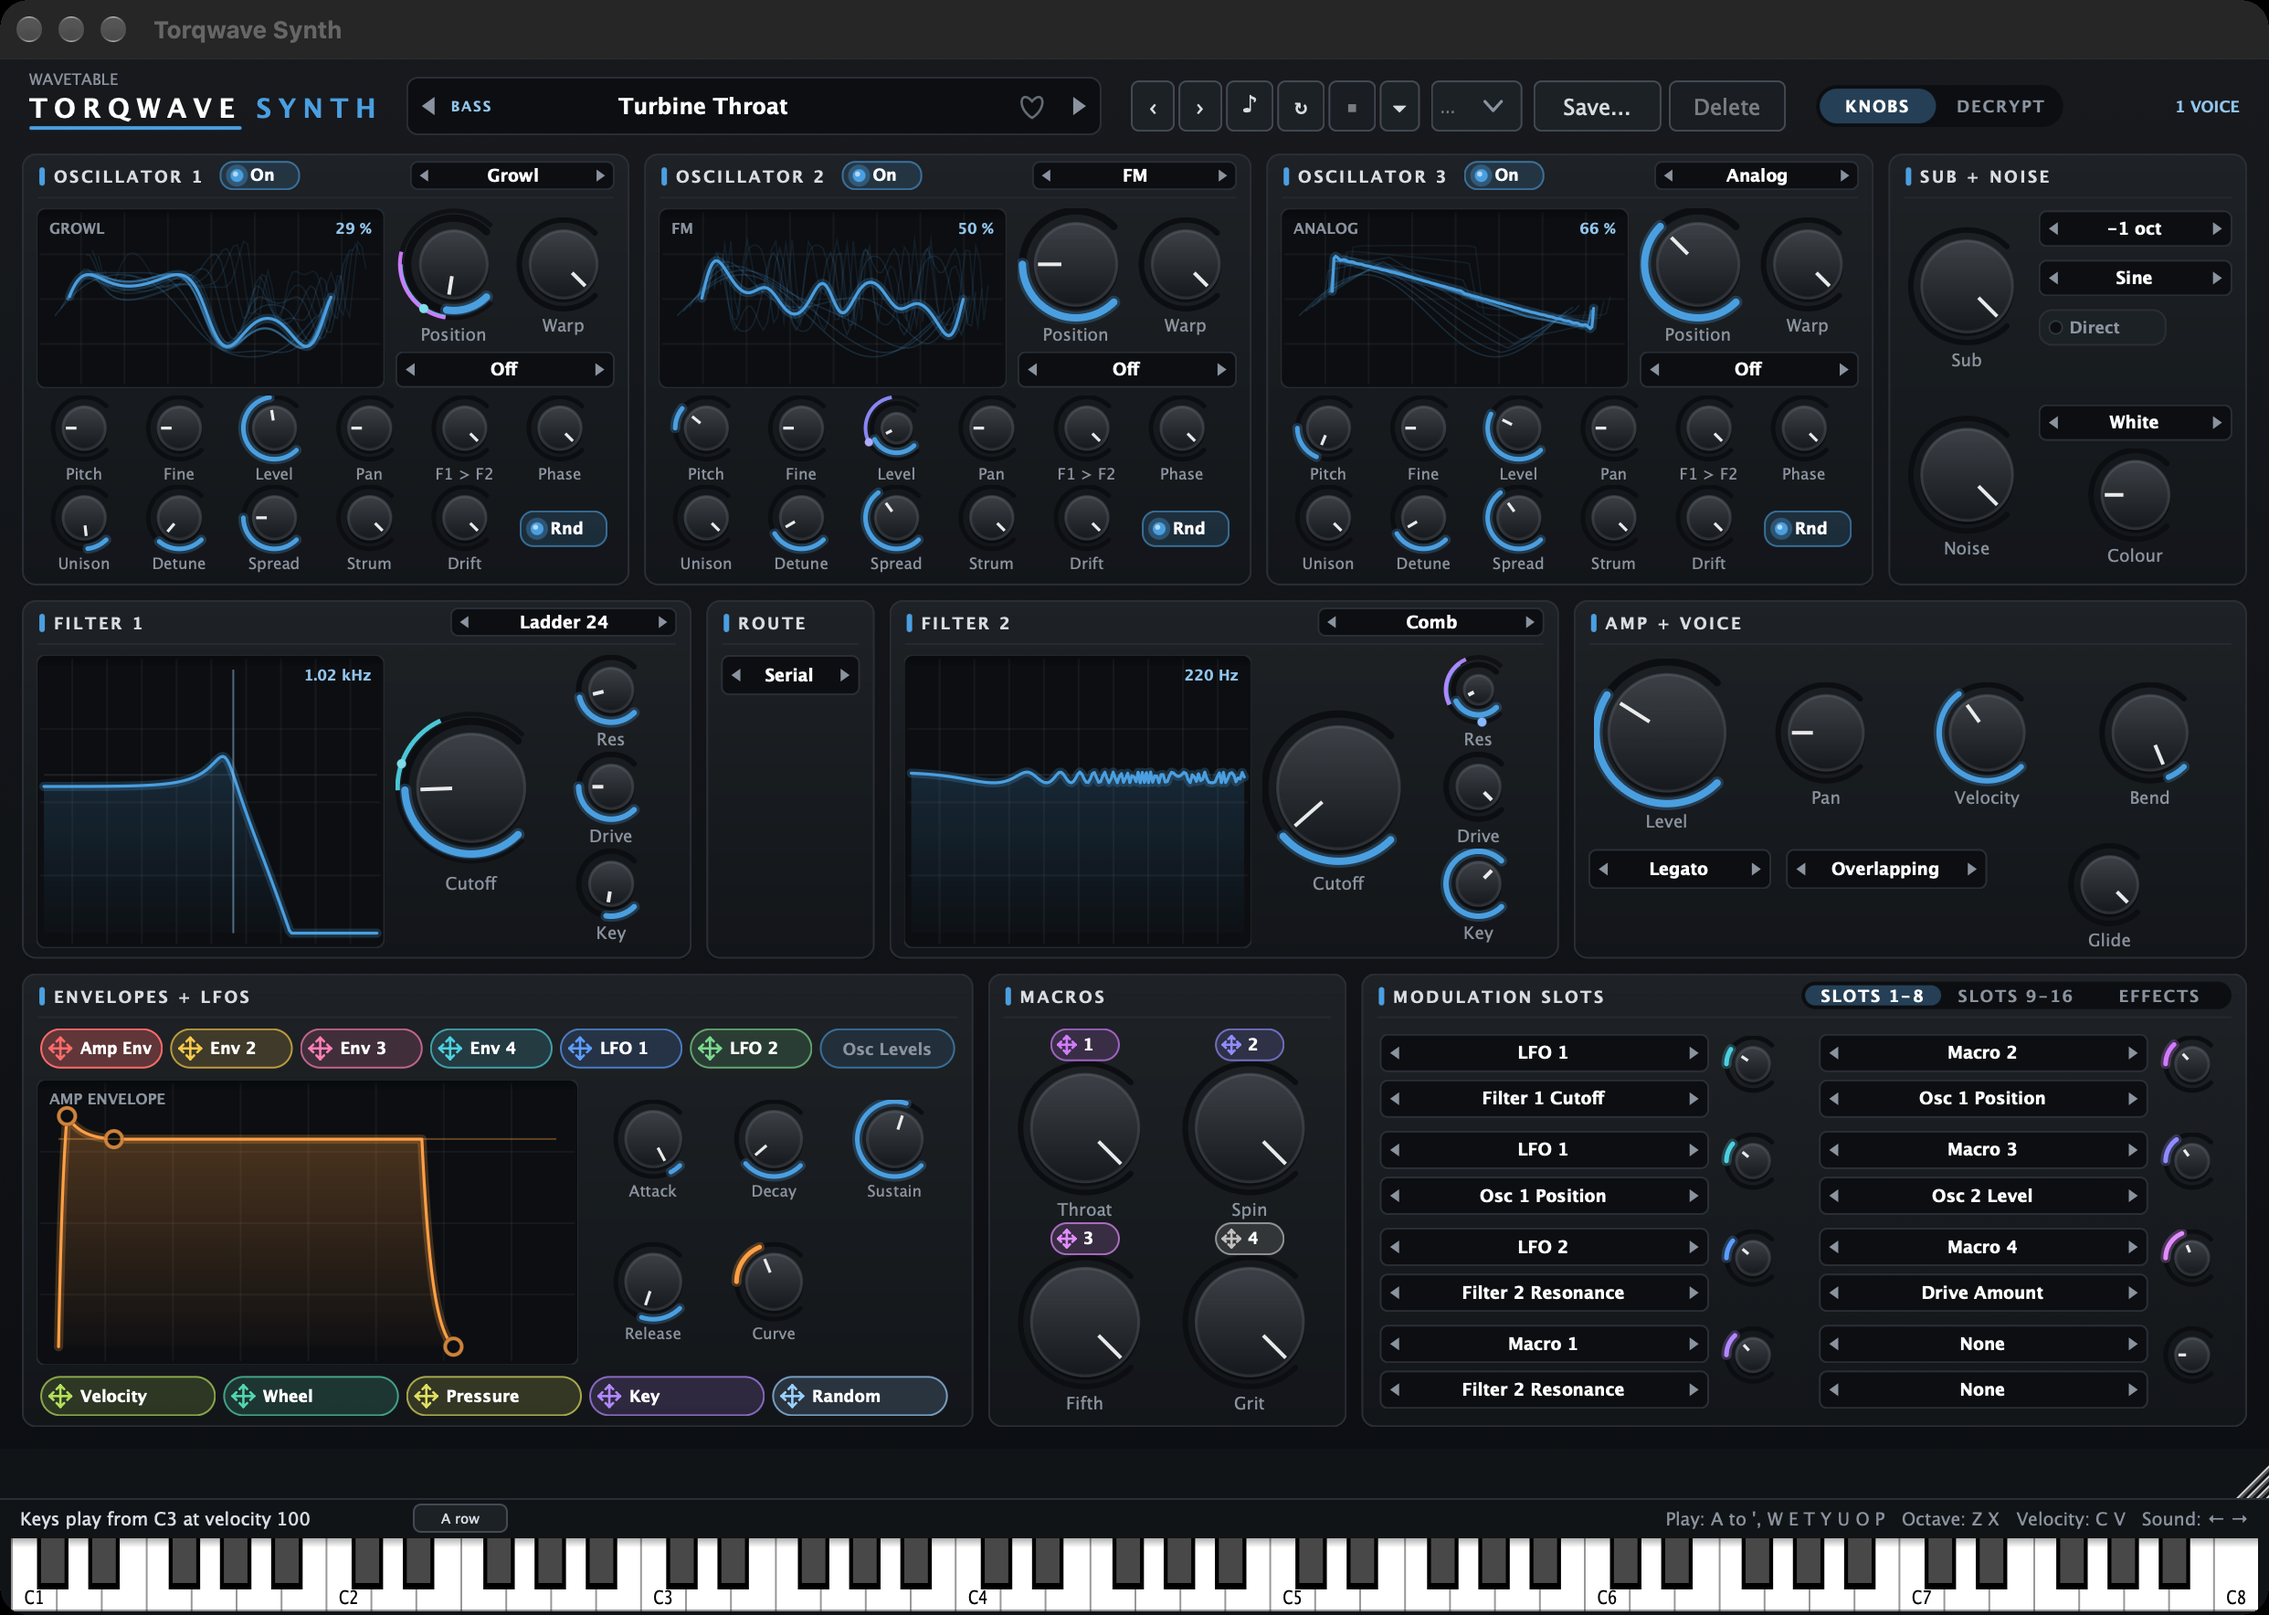
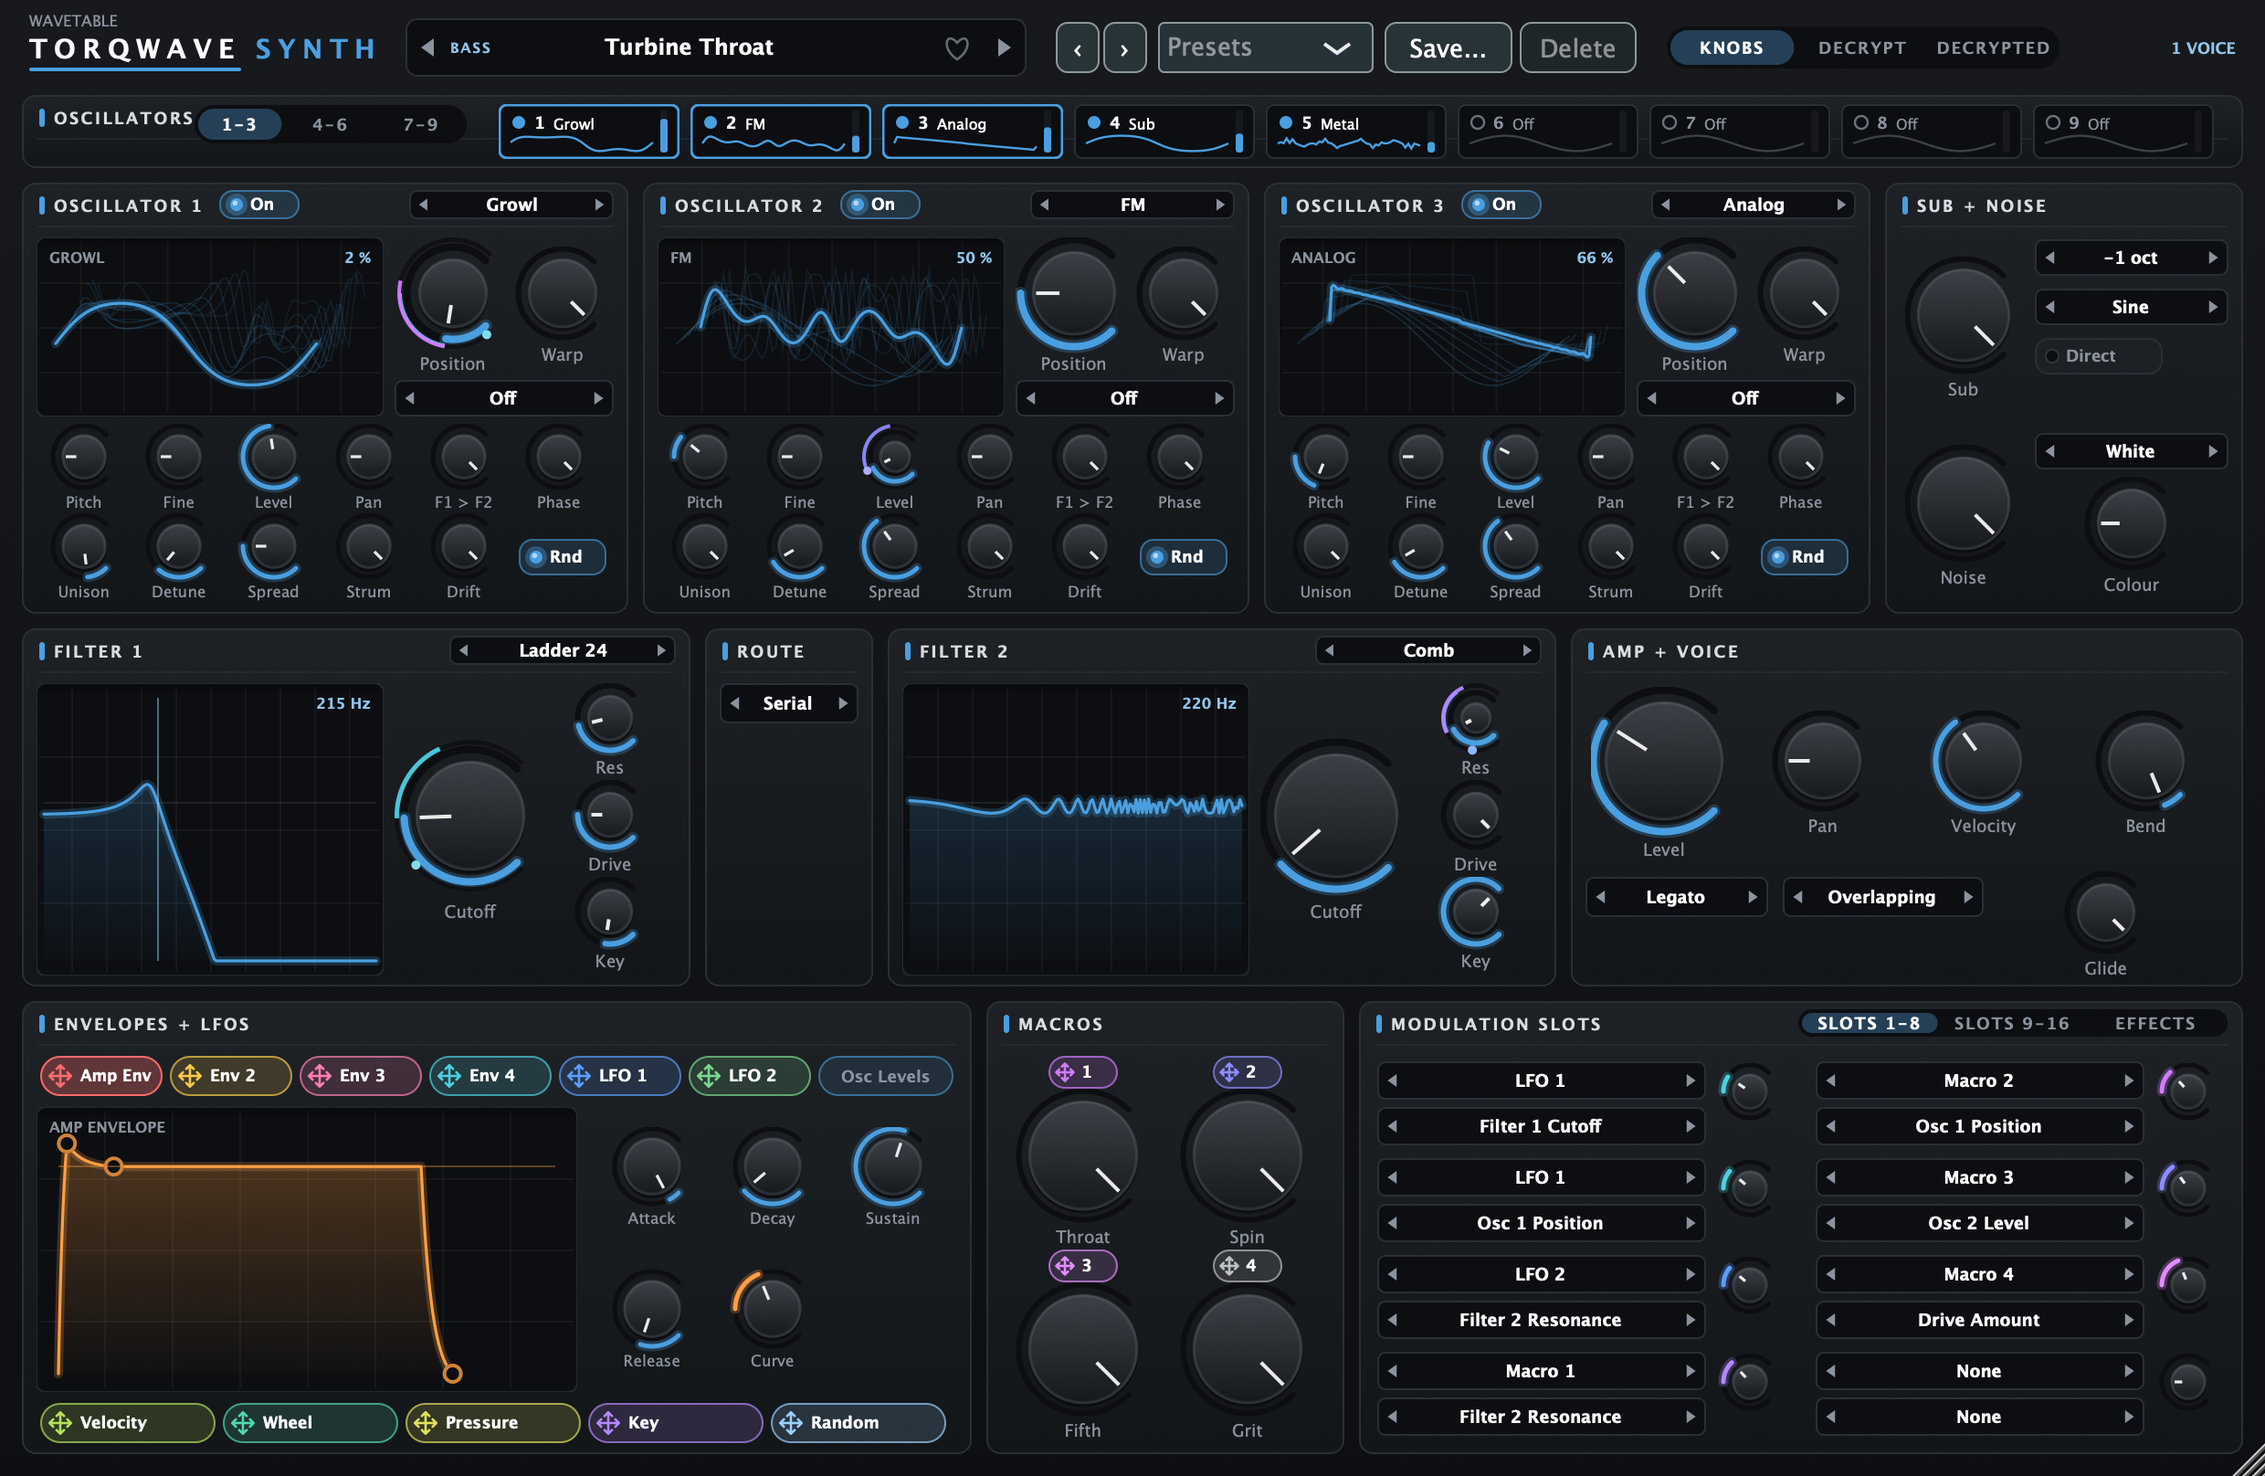
Guide: the synth picture is drawn by the tests, five oscillators on
--synth-window saves guide-synth.png: Turbine Throat with a sub layer on oscillator 4 and a metal edge on oscillator 5 whose FM takes oscillator 1, C2 held, so the Oscillators strip shows five of the nine on.

diff --git a/Tests/WaveSynthTests.cpp b/Tests/WaveSynthTests.cpp
@@ -1954,6 +1954,32 @@ void saveSynthWindow (const juce::File& folder)
     window->showModulator (0);
     window->showRightPage (0);
     save ("sampled");
+
+    // The guide's picture: Turbine Throat with two more layers on oscillators 4 and 5 (a sub an octave down,
+    // and a metal edge whose FM takes oscillator 1), C2 held.
+    synth.loadPatch ("Turbine Throat");
+    set (synth, "osc4On", 1.0f);
+    set (synth, "osc4Table", (float) WaveTables::Table::sub);
+    set (synth, "osc4Pitch", -12.0f);
+    set (synth, "osc4Volume", 45.0f);
+    set (synth, "osc5On", 1.0f);
+    set (synth, "osc5Table", (float) WaveTables::Table::metal);
+    set (synth, "osc5Position", 30.0f);
+    set (synth, "osc5Warp", (float) WaveSynth::Warp::fm);
+    set (synth, "osc5WarpAmount", 35.0f);
+    set (synth, "osc5FmFrom", 1.0f);
+    set (synth, "osc5Volume", 25.0f);
+    play (synth, { { 0, juce::MidiMessage::noteOn (1, 36, 0.8f) } }, (int) (0.6 * rate));
+    window->showOscillatorPage (0);
+    window->refresh();
+    {
+        const auto image = window->createComponentSnapshot (window->getLocalBounds(), true, 2.0f);
+        auto file = folder.getChildFile ("guide-synth.png");
+        file.deleteFile();
+        juce::FileOutputStream out (file);
+        juce::PNGImageFormat().writeImageToStream (image, out);
+        std::cout << file.getFullPathName() << std::endl;
+    }
 }
 
 void printPatchLevels()

diff --git a/Tests/WaveSynthTests.h b/Tests/WaveSynthTests.h
@@ -14,8 +14,8 @@ namespace juce { class File; }
 void writePatchHashes (const juce::File&);
 
 /** Saves pictures of the synth's window into the folder, in the dark theme at 2x: a patch as it
-    opens, the oscillators' level envelopes with slots 9 to 16, and an oscillator playing a Sampled
-    table. Run with `TorqwaveTests --synth-window <folder>`. */
+    opens, the oscillators' level envelopes with slots 9 to 16, oscillators 4 to 6, an oscillator playing
+    a Sampled table, and the guide's picture (guide-synth.png: five oscillators on, a note held). Run with `TorqwaveTests --synth-window <folder>`. */
 void saveSynthWindow (const juce::File& folder);
 
 /** Prints `name|category|dB` for each factory patch: the peak of a held minor chord (C3, E flat 3, G3

diff --git a/docs/guide/07-instruments-and-midi.md b/docs/guide/07-instruments-and-midi.md
@@ -37,9 +37,9 @@ The selected instrument track plays whatever comes in live:
 - **A note that won't stop.** **Transport > Silence All Instruments (Panic)** (Shift-Cmd-.) stops every note an instrument or a plug-in is still sounding, and the audition with it: each instrument gets its notes' offs, then All Notes Off and All Sound Off.
 - **The Piano Roll's keyboard** (see below).
 
-<img src="../screenshots/guide-synth.png" width="720" alt="The Torqwave Synth window playing the Turbine Throat bass, one voice sounding: the patch browser and the presets row with its arrows, Audition, Loop, Stop and pattern buttons and the Knobs / Decrypt switch along the top; three oscillator panels with their wavetables drawn in depth, Sub and Noise, two filters with their response curves, Amp and Voice, the envelopes and LFOs, four named macros and the modulation slots; and the playing keys along the bottom">
+<img src="../screenshots/guide-synth.png" width="720" alt="The Torqwave Synth window playing the Turbine Throat bass, one voice sounding: the patch browser, the presets bar and the Knobs / Decrypt / Decrypted switch along the top; the Oscillators strip with its 1-3, 4-6 and 7-9 pages and nine cells, five of them on (Growl, FM, Analog, Sub and Metal) and four off; oscillators 1 to 3 in their panels with their wavetables drawn in depth, Sub and Noise, two filters with their response curves, Amp and Voice, the envelopes and LFOs, four named macros and the modulation slots">
 
-*The window of Torqwave Synth, the built-in instrument, playing Turbine Throat, one of the layered basses.*
+*The window of Torqwave Synth, the built-in instrument, playing Turbine Throat, one of the layered basses, with two more layers switched on in oscillators 4 and 5. The picture is drawn by Torqwave's tests.*
 
 Torqwave Synth is a wavetable synth made for dark techno, industrial and EBM. Its window is laid out the way the sound flows, left to right and top to bottom:
 
